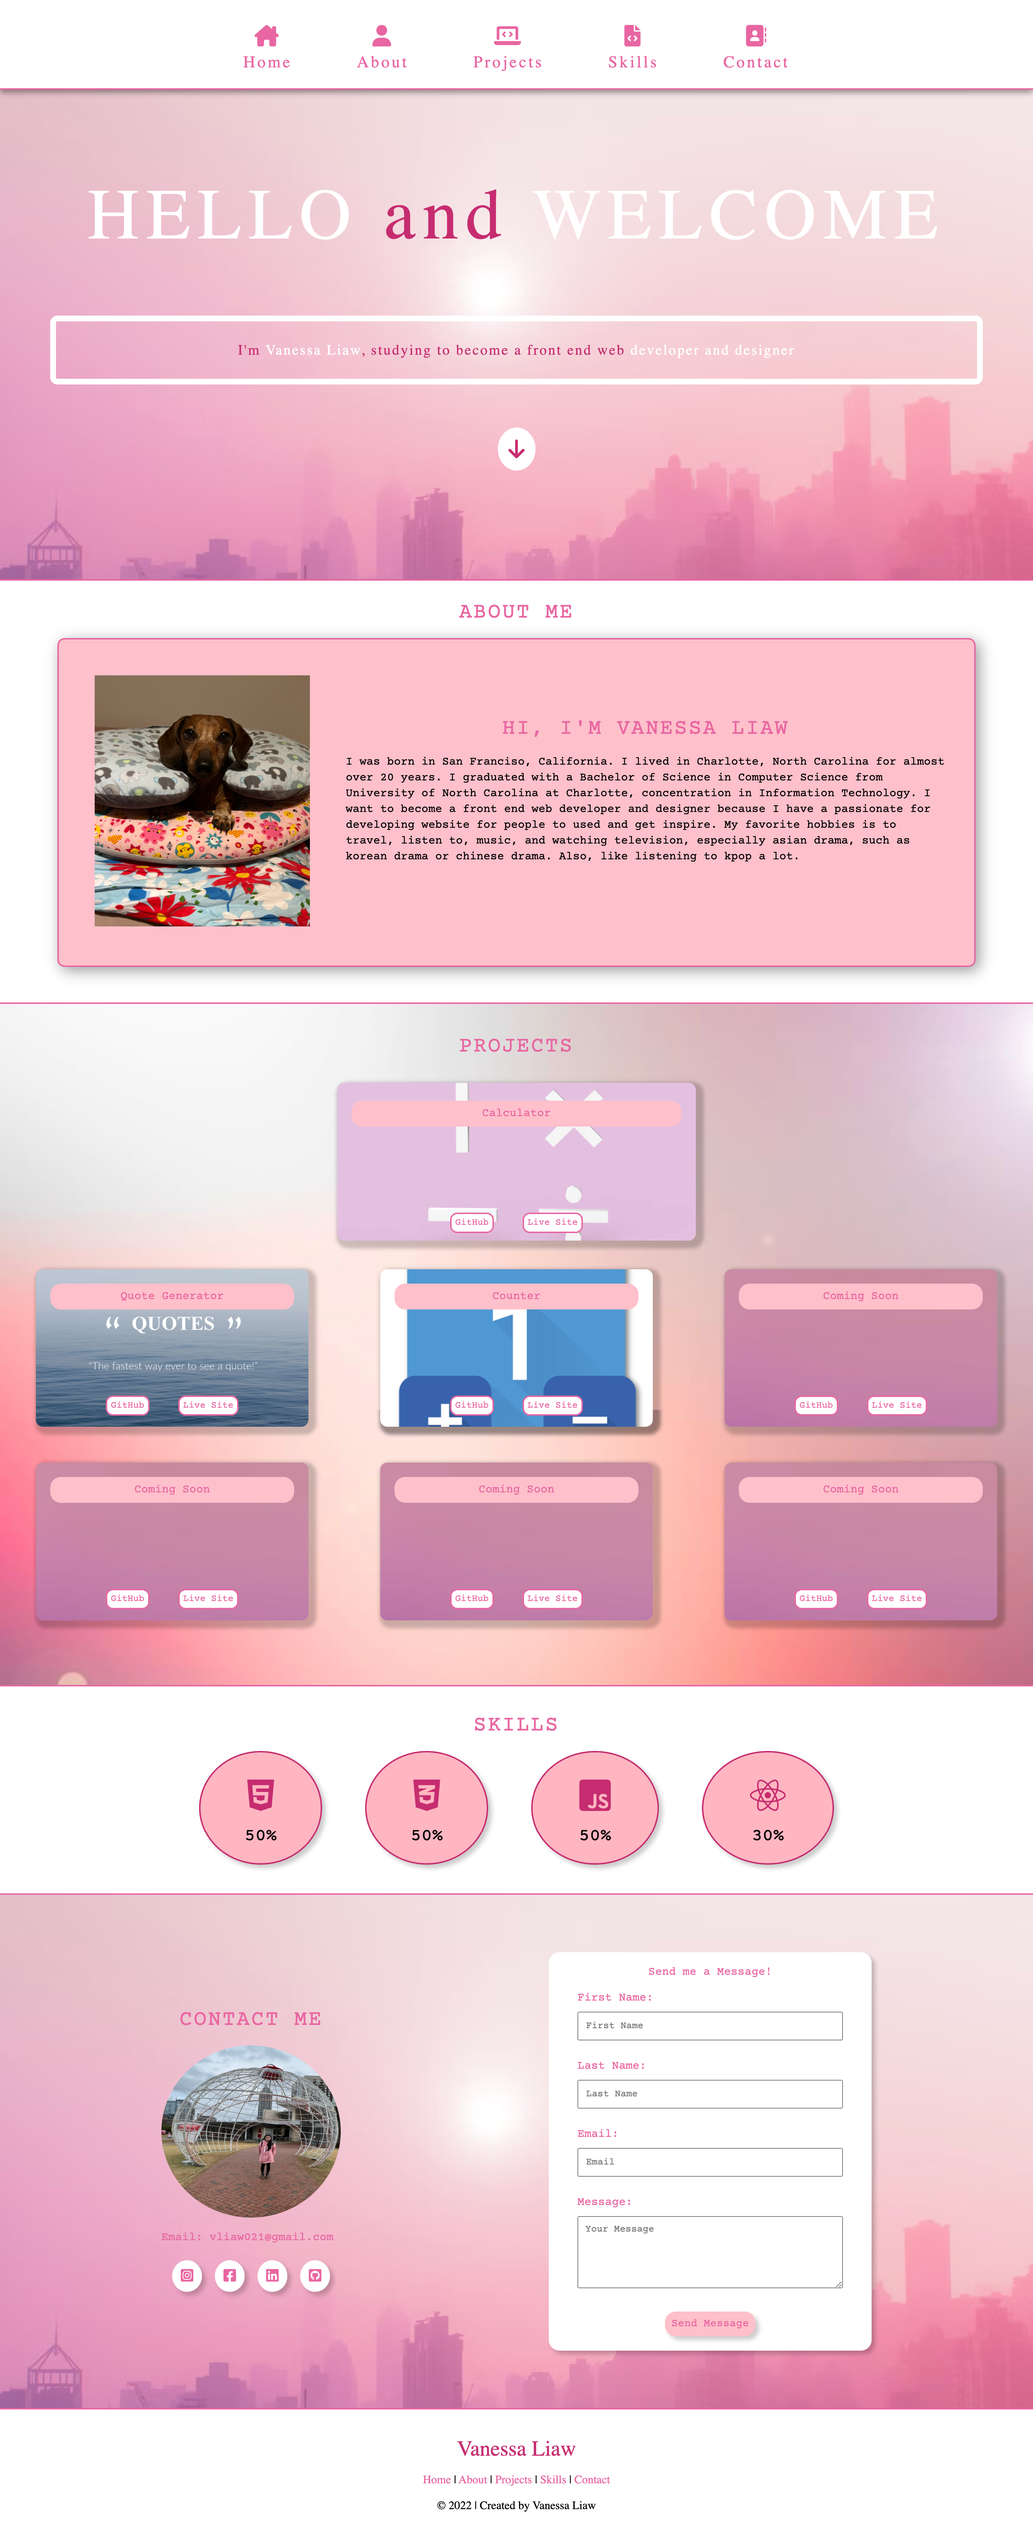
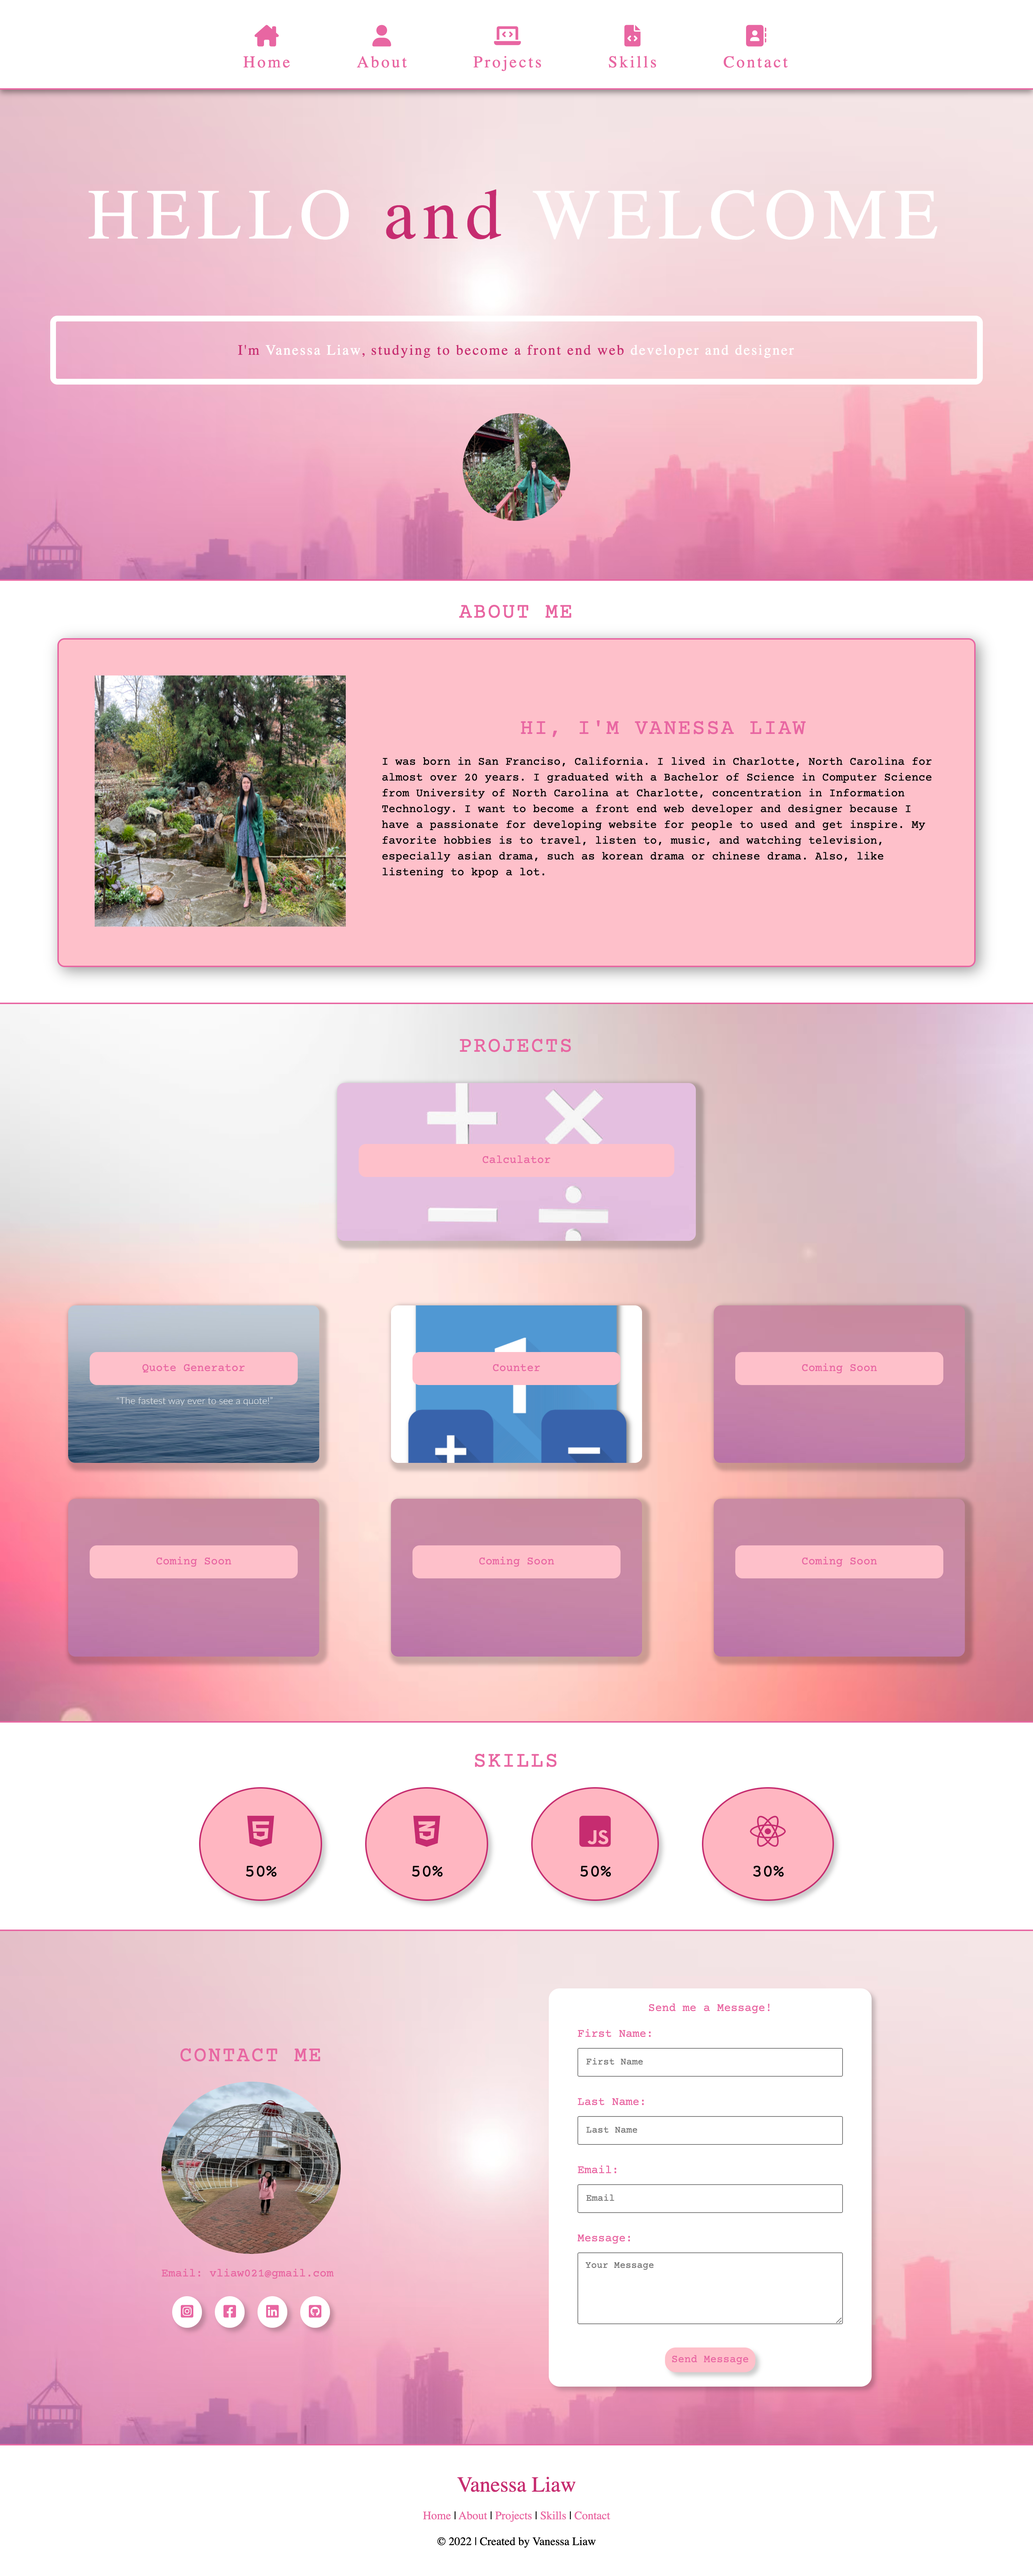
updated visual in README file

diff --git a/README.md b/README.md
@@ -22,6 +22,8 @@ My portfolio include a about me section, a project section, a skills section, an
 
 ## Visuals
 
+Full page screenshot of my portfolio application
+
 ![Vanessa's Personal Portfolio Website](./assets/images/Vanessa's-Portfolio.png)
 
 ## Resources
